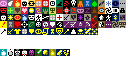
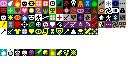
2.3: implemented emendantio iactus, a spell empower that scales with aspects

Changed region(s): [[0.5312, 0.75, 0.625, 0.875]]

diff --git a/core/src/main/java/com/zrp200/rkpd2/actors/hero/spells/SpellEmpower.java b/core/src/main/java/com/zrp200/rkpd2/actors/hero/spells/SpellEmpower.java
@@ -18,6 +18,8 @@ import com.watabou.utils.GameMath;
 import java.util.ArrayList;
 import java.util.Collections;
 import java.util.List;
+import java.util.Map;
+import java.util.TreeMap;
 
 import static com.zrp200.rkpd2.Dungeon.hero;
 
@@ -44,6 +46,8 @@ public abstract class SpellEmpower extends ClericSpell {
     }
 
     public static float limit() {
+        if (hero.buff(EmendatioIactus.Buff.class) != null)
+            return EmendatioIactus.charges();
         return Math.max(
                 1 << hero.pointsInTalent(Talent.LIMIT_BREAK),
                 2 + hero.pointsInTalent(Talent.DIVINE_ADVENT)
@@ -222,6 +226,96 @@ public abstract class SpellEmpower extends ClericSpell {
             }
             public float duration() {
                 return 300 - 20*LimitBreak.INSTANCE.scalingPoints();
+            }
+        }
+    }
+
+    public static class EmendatioIactus extends SpellEmpower {
+        public static final EmendatioIactus INSTANCE = new EmendatioIactus();
+
+        {
+            talent = Talent.EMENDATIO_ICATUS;
+        }
+
+        public static class aspect_holder {
+            Talent.Aspect aspect;
+            int amount;
+
+            public aspect_holder(Talent.Aspect aspect, int value) {
+                this.aspect = aspect;
+                this.amount = value;
+            }
+        }
+
+        @Override
+        public int icon() { return HeroIcon.EMENDATIO_ICATUS; }
+
+        @Override
+        public float chargeUse(Hero hero) {
+            return 4;
+        }
+
+        @Override
+        public int aspectRequirement() {
+            return 1;
+        }
+
+        public static aspect_holder givenAspect(){
+            TreeMap<Talent.Aspect, Integer> existingAspects = new TreeMap<>();
+
+            for (int i = 0; i < hero.talents.size(); i++){
+                for (Map.Entry<Talent, Integer> talentData : hero.talents.get(i).entrySet()){
+                    existingAspects.put(talentData.getKey().aspect,
+                            !existingAspects.containsKey(talentData.getKey().aspect) ?
+                                    1 : existingAspects.get(talentData.getKey().aspect) + 1);
+                }
+            }
+
+            return new aspect_holder(existingAspects.lastEntry().getKey(), existingAspects.lastEntry().getValue());
+        }
+
+        public static float charges(){
+            return givenAspect().amount*(0.5f*(1+hero.pointsInTalent(INSTANCE.talent())));
+        }
+
+        @Override
+        protected List<Object> getDescArgs() {
+            ArrayList<Object> args = new ArrayList<>();
+            aspect_holder holder = givenAspect();
+            args.add(holder.aspect.toString());
+            args.add(charges());
+            args.add((int)(25*charges()));
+            return args;
+        }
+
+        @Override
+        protected void applyBuff(Hero hero) {
+            Buff.affect(hero, Buff.class);
+            Cooldown cd = Cooldown.affectHero(Cooldown.class);
+            cd.spend(-1); // offset the instant cast
+        }
+
+        public static class Buff extends SpellEmpower.Buff {
+            @Override
+            public int icon() { return BuffIndicator.EMENDATIO_ICATUS; }
+
+            @Override
+            public String desc() {
+                return super.desc() + "\n" + Messages.get(this, "cooldown", target.buff(Cooldown.class).iconTextDisplay());
+            }
+
+            @Override
+            public float getTurnsPerCharge() {
+                return 10;
+            }
+        }
+
+        public static class Cooldown extends SpellCooldown {
+            public int icon() {
+                return target.buff(Buff.class) != null ? BuffIndicator.NONE : BuffIndicator.EMENDATIO_ICATUS;
+            }
+            public float duration() {
+                return 25*charges();
             }
         }
     }

diff --git a/core/src/main/java/com/zrp200/rkpd2/actors/hero/Talent.java b/core/src/main/java/com/zrp200/rkpd2/actors/hero/Talent.java
@@ -265,7 +265,7 @@ public enum Talent {
 	//Paladin T3
 	LAY_ON_HANDS(174, 3, Aspect.DEFENSE), AURA_OF_PROTECTION(175, 3, Aspect.DEFENSE), WALL_OF_LIGHT(176, 3, Aspect.DEFENSE), LIMIT_BREAK(190, 3, Aspect.MULTIFORM), TRIAGE(191, 3, Aspect.UTILITY),
 	//Cenobite T3
-    ARS_RETRACTANDI(imageAt(8, 13), 3), MESSIS_POTENTIAE(imageAt(9, 13), 3, Aspect.MULTIFORM), PETITIO_MAGICA(imageAt(10, 13), 3),
+    ARS_RETRACTANDI(imageAt(8, 13), 3), MESSIS_POTENTIAE(imageAt(9, 13), 3, Aspect.MULTIFORM), PETITIO_MAGICA(imageAt(10, 13), 3), EMENDATIO_ICATUS(imageAt(11, 13), 3, Aspect.MULTIFORM),
     //Ascended Form T4
 	DIVINE_INTERVENTION(177, 4, Aspect.DEFENSE), JUDGEMENT(178, 4, Aspect.OFFENSE), FLASH(179, 4, Aspect.UTILITY), DIVINE_PROFICIENCY(imageAt(13, 13), 4),
 	//Trinity T4
@@ -1970,7 +1970,7 @@ public enum Talent {
 				Collections.addAll(tierTalents, LAY_ON_HANDS, AURA_OF_PROTECTION, WALL_OF_LIGHT, LIMIT_BREAK, TRIAGE);
 				break;
             case CENOBITE:
-                Collections.addAll(tierTalents, ARS_RETRACTANDI, MESSIS_POTENTIAE, PETITIO_MAGICA);
+                Collections.addAll(tierTalents, ARS_RETRACTANDI, MESSIS_POTENTIAE, PETITIO_MAGICA, EMENDATIO_ICATUS);
                 break;
             case KING: // this should be *lovely*
 				Collections.addAll(tierTalents, RK_BERSERKER, RK_BATTLEMAGE, RK_ASSASSIN, RK_SNIPER, RK_GLADIATOR, RK_WARLOCK, RK_FREERUNNER, RK_WARDEN); break;

diff --git a/core/src/main/java/com/zrp200/rkpd2/ui/HeroIcon.java b/core/src/main/java/com/zrp200/rkpd2/ui/HeroIcon.java
@@ -114,7 +114,8 @@ public class HeroIcon extends Image {
             MUTARE_ARTEM    = imageAt(2, 16),
             ARS_RETRACTANDI = imageAt(3, 16),
             MESSIS_POTENTIAE = imageAt(4, 16),
-            PETITIO_MAGICA   = imageAt(5, 16);
+            PETITIO_MAGICA   = imageAt(5, 16),
+            EMENDATIO_ICATUS = imageAt(6, 16);
 
 	//all cleric spells have a separate icon with no background for the action indicator
 	public static final int SPELL_ACTION_OFFSET      = 32;

diff --git a/core/src/main/java/com/zrp200/rkpd2/ui/BuffIndicator.java b/core/src/main/java/com/zrp200/rkpd2/ui/BuffIndicator.java
@@ -149,6 +149,7 @@ public class BuffIndicator extends Component {
 	public static final int HOLYFLAMES  = 8_07;
     public static final int MESSIS_POTENTIAE = 9_07;
     public static final int PETITIO_MAGICA   = 10_07;
+    public static final int EMENDATIO_ICATUS = 11_07;
 
     private static BuffIndicator heroInstance;
 	private static BuffIndicator bossInstance;

diff --git a/core/src/main/java/com/zrp200/rkpd2/actors/hero/spells/ClericSpell.java b/core/src/main/java/com/zrp200/rkpd2/actors/hero/spells/ClericSpell.java
@@ -286,6 +286,7 @@ public abstract class ClericSpell {
                 ArsRetractandi.INSTANCE,
                 MessisPotentiae.INSTANCE,
                 PetitioMagica.INSTANCE,
+                SpellEmpower.EmendatioIactus.INSTANCE
 			}){
 				if (spell.isVisible(cleric)) spells.add(spell);
 			}
